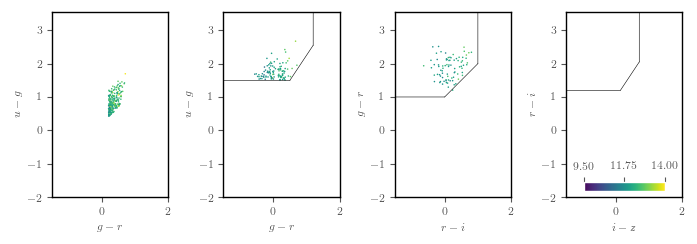
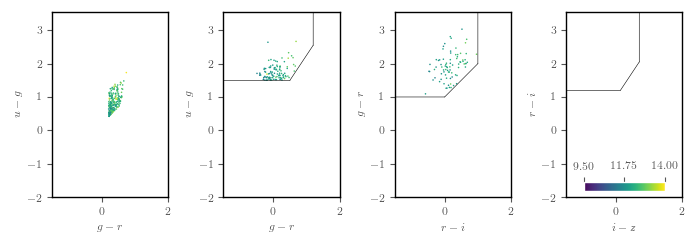
Calculated xi for in sample.

Changed region(s): [[0.6026, 0.2008, 0.693, 0.373], [0.3615, 0.2295, 0.4218, 0.3443], [0.1506, 0.3156, 0.1808, 0.459]]

diff --git a/simba_corrfunc.py b/simba_corrfunc.py
@@ -1,50 +1,47 @@
-import  matplotlib; matplotlib.use('pdf')
-
 import  glob
 import  h5py
 import  Corrfunc
 import  fitsio
 import  numpy                         as      np
-import  pylab                         as      pl
-import  matplotlib.pyplot             as      plt
 
 from    astropy.table                 import  Table
 from    scipy.spatial                 import  KDTree 
 from    itertools                     import  product
-from    utils                         import  latexify
 from    snaps                         import  snaps
 
 
-latexify(columns=1, equal=True, fontsize=10, ggplot=True, usetex=True)
-
-bs = [2.200000, 3.200000, 4.200000, 5.5000]
-
-def get_simba(tracer, x, space=''):
-    fpath = '/home/mjwilson/LBGSIMBA/bigdat/simba_{}{}pos_{:.5f}.fits'.format(tracer, space, x)
+def get_simba(tracer, x, space='', insample=0):
+    fpath  = '/home/mjwilson/LBGSIMBA/bigdat/simba_{}{}pos_{:.5f}.fits'.format(tracer, space, x)
 
     print('Retrieving {}.'.format(fpath))
 
-    cat   = fitsio.read(fpath)
+    cat    = fitsio.read(fpath)
 
+    if tracer == 'g':
+      isin = cat['INSAMPLE']
+      
     ##  Comoving Mpc/h.                                                                                                                                                                   
-    cat   = np.c_[cat['x'], cat['y'], cat['z']]
+    cat    = np.c_[cat['x'], cat['y'], cat['z']]
 
     if tracer == 'dm':
         # sub-sample.
         cat   = cat[::10] 
 
+    if (tracer == 'g') & insample:
+        print('Retaining {} of {} in sample.'.format(np.count_nonzero(isin), len(cat)))
+
+        cat   =  cat[isin.astype(bool)]
+        
     return  cat
         
-def calc_xi(test, boxsize, redshift, tracer, space):    
+def calc_xi(test, boxsize, redshift, tracer, space, insample=0):    
     print('Solving for Test: {}, boxsize: {}, redshift: {}, tracer: {} and space: {}.'.format(test, boxsize, redshift, tracer, space))
 
     # Comoving Mpc/h. 
-    pos         =  get_simba(tracer, redshift, space=space)
+    pos         =  get_simba(tracer, redshift, space=space, insample=insample)
     
     if test:
       pos = pos[:1000]
-
-    print(len(pos))
     
     ngal        =  len(pos)
     vol         =  boxsize ** 3.
@@ -60,11 +57,20 @@ def calc_xi(test, boxsize, redshift, tracer, space):
     ##  Save result:
     rs          = results['ravg']
     
-    np.savetxt('dat/corrfuncxi_{}space_{}_{:.3f}.txt'.format(space, tracer, redshift), np.c_[rs, results['xi']], fmt='%.6le')
+    np.savetxt('dat/corrfuncxi_{}space_{}_{:.3f}_insample_{}.txt'.format(space, tracer, redshift, insample), np.c_[rs, results['xi']], fmt='%.6le')
     
 def plot_xi(space=''):
-    from  mcfit  import  P2xi
+    import  matplotlib; matplotlib.use('pdf')
+    import  pylab                         as      pl
+    import  matplotlib.pyplot             as      plt
 
+    from    sutils                        import latexify
+    from    mcfit                         import  P2xi
+
+    
+    latexify(columns=1, equal=True, fontsize=10, ggplot=True, usetex=True)
+
+    bs     = [2.200000, 3.200000, 4.200000, 5.5000]
     
     colors = plt.rcParams['axes.prop_cycle'].by_key()['color']
 
@@ -126,6 +132,7 @@ def plot_xi(space=''):
 if __name__ == '__main__':
     print('\n\nWelcome to Simba xi.')
 
+    insample    =      1
     test        =  False
 
     #  [Mpc/h];  hubble      =  0.68  
@@ -134,12 +141,12 @@ if __name__ == '__main__':
 
     redshifts   = [2.024621, 3.00307, 3.963392, 5.0244]
     
-    tracer      = 'dm'  ##  ['g', 'dm']
+    tracer      = 'g'   ##  ['g', 'dm']
     space       = ''    ##  ['z', '']
     
     for redshift in redshifts:          
-      calc_xi(test, boxsize, redshift, tracer, space)
+      calc_xi(test, boxsize, redshift, tracer, space, insample=insample)
     
-    plot_xi(space='')
+    ##  plot_xi(space='')
       
     print('\n\nDone.\n\n')

diff --git a/nbodykit/write_gal.py b/nbodykit/write_gal.py
@@ -12,6 +12,8 @@ from    insample          import  read_insample
 cosmo              =  FlatLambdaCDM(H0=68, Om0=0.3, Tcmb0=2.725)
 
 def read_zpos(boxsize, redshift, set_insample=0):
+    print('\n\nSolving for redshift {}.'.format(redshift))
+
     caesar         =  get_caesar(boxsize, redshift)
 
     pos            =  [list([x.GroupID]) + list(x.pos.to('Mpccm/h').value) for x in caesar.galaxies]  # comoving Mpc/h.             
@@ -60,7 +62,6 @@ def read_zpos(boxsize, redshift, set_insample=0):
 
       pos['INSAMPLE']  = insample
       zpos['INSAMPLE'] = insample
-
       
     pos.write('../bigdat/simba_gpos_{:.5f}.fits'.format(redshift),   format='fits', overwrite=True)
     zpos.write('../bigdat/simba_gzpos_{:.5f}.fits'.format(redshift), format='fits', overwrite=True)

diff --git a/get_data.py b/get_data.py
@@ -92,9 +92,10 @@ def get_phys(boxsize, getredshift, printit=False, nrows=-1):
     to_return['_hmass']      =  to_return['ndm'] * to_return['dm_pmass']
     to_return['hmass']       =  np.array([to_return['_hmass'][to_return['hid'] == x][0] for x in to_return['haloindex']])
 
-    for key in to_return.keys():
-      if key not in ['smass_res', 'dm_pmass']:    
-        to_return[key]       =  to_return[key][:nrows] 
+    if nrows > -1:
+      for key in to_return.keys():
+        if key not in ['smass_res', 'dm_pmass']:    
+          to_return[key]     =  to_return[key][:nrows] 
     
     return  to_return  
     
